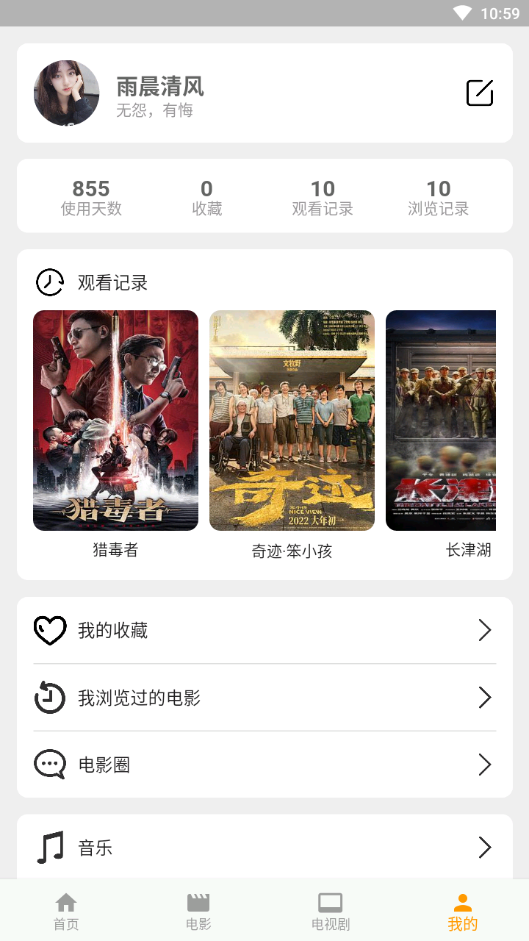
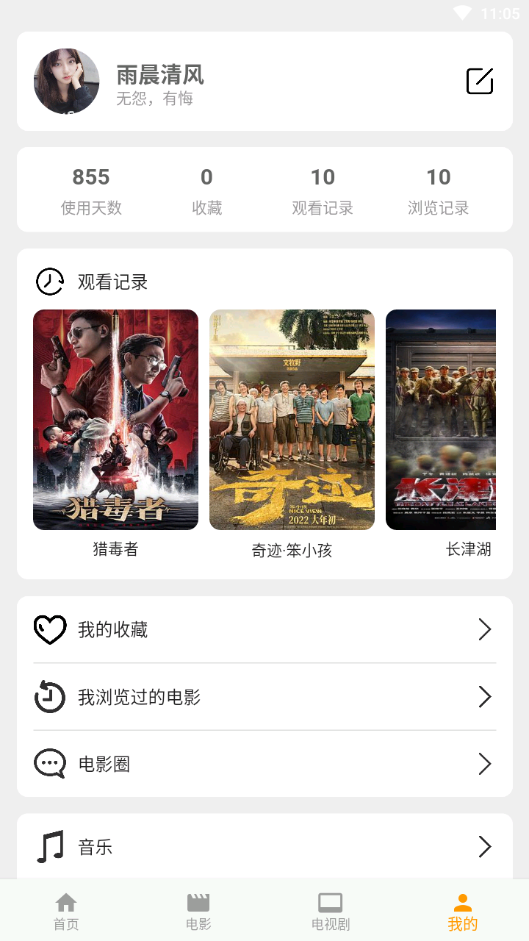
修改我的页面样式

diff --git a/lib/pages/MyPage.dart b/lib/pages/MyPage.dart
@@ -107,6 +107,7 @@ class UserMsgComponent extends StatelessWidget {
                         child: Column(children: <Widget>[
                           Text(userMsg.userAge.toString(),
                               style: ThemeStyle.mainTitleStyle),
+                          SizedBox(height: Size.smallMargin),
                           Text("使用天数", style: ThemeStyle.subTitleStyle)
                         ])),
                     Expanded(
@@ -114,18 +115,21 @@ class UserMsgComponent extends StatelessWidget {
                         child: Column(children: <Widget>[
                           Text(userMsg.favoriteCount.toString(),
                               style: ThemeStyle.mainTitleStyle),
+                          SizedBox(height: Size.smallMargin),
                           Text("收藏", style: ThemeStyle.subTitleStyle)
                         ])),
                     Expanded(
                         flex: 1,
                         child: Column(children: <Widget>[
                           Text(userMsg.playRecordCount.toString(), style: ThemeStyle.mainTitleStyle),
+                          SizedBox(height: Size.smallMargin),
                           Text("观看记录", style: ThemeStyle.subTitleStyle)
                         ])),
                     Expanded(
                         flex: 1,
                         child: Column(children: <Widget>[
                           Text(userMsg.viewRecordCount.toString(), style: ThemeStyle.mainTitleStyle),
+                          SizedBox(height: Size.smallMargin),
                           Text("浏览记录", style: ThemeStyle.subTitleStyle)
                         ])),
                   ],
